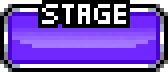
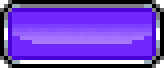
[added] 스테이지 표기 UI 변경 - 월드 표기 추가

diff --git a/Classes/game/ui/TopMenu.cpp b/Classes/game/ui/TopMenu.cpp
@@ -87,11 +87,18 @@ void TopMenu::onClick(Node *sender) {
  * Stage UI 업데이트
  */
 void TopMenu::updateStageUI(const StageData &stage) {
+
+    auto worldLabel = getChildByTag<Label*>(Tag::WORLD);
+    
+    if( worldLabel ) {
+        worldLabel->setString(STR_FORMAT("W %d", stage.world));
+    }
     
     auto stageLabel = getChildByTag<Label*>(Tag::STAGE);
     
     if( stageLabel ) {
-        stageLabel->setString(STR_FORMAT("%d", stage.stage));
+        string stageStr = (/*isBoss()*/false) ? "B" : TO_STRING(stage.stage);
+        stageLabel->setString(stageStr);
     }
 }
 
@@ -252,15 +259,21 @@ void TopMenu::initStage() {
     
     const auto bgSize(getContentSize());
     
-    // 스테이지
-    // game_bg_stage.png Vec2TL(88, -36) , Size(168, 72)
+    // 스테이지 배경
     auto stageBg = Sprite::create(DIR_IMG_GAME + "game_bg_stage.png");
     stageBg->setAnchorPoint(ANCHOR_M);
-    stageBg->setPosition(Vec2TL(bgSize, 88, -36));
+    stageBg->setPosition(Vec2TL(bgSize, 88, -38));
     addChild(stageBg, 1);
     
-    // BM_font Vec2TL(88, -44) , Size(64, 40)
-    auto stageLabel = Label::createWithBMFont(FONT_STAGE, "1", TextHAlignment::CENTER);
+    // 월드 번호
+    auto worldLabel = Label::createWithBMFont(FONT_WORLD_SMALL, "W 1", TextHAlignment::CENTER);
+    worldLabel->setTag(Tag::WORLD);
+    worldLabel->setAnchorPoint(ANCHOR_M);
+    worldLabel->setPosition(Vec2TL(bgSize, 88, -14));
+    addChild(worldLabel, 1);
+    
+    // 스테이지 번호
+    auto stageLabel = Label::createWithBMFont(FONT_WORLD_MEDIUM, "1", TextHAlignment::CENTER);
     stageLabel->setTag(Tag::STAGE);
     stageLabel->setAnchorPoint(ANCHOR_M);
     stageLabel->setPosition(Vec2TL(bgSize, 88, -44));
@@ -273,7 +286,6 @@ void TopMenu::initStage() {
     floorProgressBar.layer = layer;
     
     // Gage
-    // game_gage_stage_bg.png Vec2TC(20, -38) , Size(408, 52)
     auto gageBg = Sprite::create(DIR_IMG_GAME + "game_gage_stage_bg.png");
     gageBg->setAnchorPoint(ANCHOR_M);
     gageBg->setPosition(Vec2TC(bgSize, 20, -38));
@@ -289,14 +301,12 @@ void TopMenu::initStage() {
     
     floorProgressBar.gage = gage;
     
-    // game_icon_boss.png Vec2TC(246, -38) , Size(84, 64)
     auto gageBossIcon = Sprite::create(DIR_IMG_GAME + "game_icon_boss.png");
     gageBossIcon->setAnchorPoint(ANCHOR_M);
     gageBossIcon->setPosition(Vec2TC(bgSize, 246, -38));
     layer->addChild(gageBossIcon);
     
     // Label
-    // 12/34 size:30 stroke:3 Vec2TC(19, -14) , Size(119, 31)
     floorProgressBar.label = Label::createWithTTF("", FONT_COMMODORE, 30, Size::ZERO,
                                                   TextHAlignment::CENTER, TextVAlignment::CENTER);
     floorProgressBar.label->setAnchorPoint(ANCHOR_M);

diff --git a/Classes/content/data/model/StageData.h b/Classes/content/data/model/StageData.h
@@ -15,6 +15,7 @@
 #include "PatternData.h"
 
 struct StageData {
+    int            world;                   // 월드 번호
     int            stage;                   // 스테이지 번호
     int            originStage;
     int            finalBallCount;
@@ -28,19 +29,21 @@ struct StageData {
     BrickDataList  normalBrickList;
     BrickDataList  bossBrickList;
     
-    StageData() : stage(0) {}
+    StageData() : world(0), stage(0) {}
     
     void parse(const rapidjson::Value &v, rapidjson::Document::AllocatorType &allocator) {
         
         // int values
         {
             StringList keys({
+                "world",
                 "stage",
                 "final_ball_count",
                 "final_friends_ball_damage",
             });
             
             std::vector<int*> ptrs({
+                &world,
                 &stage,
                 &finalBallCount,
                 &finalFriendsBallDamage,
@@ -91,7 +94,7 @@ struct StageData {
 
     std::string toString() {
         std::string str = "StageData {\n";
-        str += STR_FORMAT("\tstage: %d, originStage: %d\n", stage, originStage);
+        str += STR_FORMAT("\tworld: %d, stage: %d, originStage: %d\n", world, stage, originStage);
         str += STR_FORMAT("\tfinalBallCount: %d, finalFriendsBallDamage: %d\n", finalBallCount, finalFriendsBallDamage);
         str += STR_FORMAT("\tcoinDropMin: %d, coinDropMax: %d\n", coinDropMin, coinDropMax);
         str += STR_FORMAT("\tfirstFloor: %d\n", getFirstFloor().floor);

diff --git a/Classes/base/Define.h b/Classes/base/Define.h
@@ -104,9 +104,11 @@ static const std::string FONT_GAME_OVER             = DIR_FONT + "game_over.ttf"
 static const std::string FONT_RETRO                 = DIR_FONT + "Commodore.ttf";
 static const std::string FONT_NEW_RECORD            = DIR_FONT + "Sabo-Filled.otf";
 static const std::string FONT_FAMOUS_SAYING         = DIR_FONT + "game_over.ttf";
-static const std::string FONT_STAGE                 = DIR_FONT + "ui_stage.fnt";
-static const std::string FONT_STAGE_LARGE           = DIR_FONT + "stage_big.fnt";
-static const std::string FONT_STAGE_LARGE_Y         = DIR_FONT + "stage_big_yellow.fnt";
+
+static const std::string FONT_WORLD_SMALL           = DIR_FONT + "world_small.fnt";
+static const std::string FONT_WORLD_MEDIUM          = DIR_FONT + "world_medium.fnt";
+static const std::string FONT_WORLD_LARGE           = DIR_FONT + "world_big.fnt";
+static const std::string FONT_WORLD_SILVER          = DIR_FONT + "world_silver.fnt";
 static const std::string FONT_COIN_BLUE             = DIR_FONT + "coin_blue.fnt";
 
 // 사운드 경로

diff --git a/Classes/game/GameView.cpp b/Classes/game/GameView.cpp
@@ -277,7 +277,7 @@ void GameView::onStageChanged(const StageData &stage) {
     friendsLayer->updatePosition(aimController->getStartPosition(), false);
     
     // update ui
-    showStageLabel(stage.stage);
+    showStageLabel(stage);
     updateBallCountUI();
 }
 
@@ -1200,9 +1200,14 @@ bool GameView::checkStageClear() {
 /**
  * 중앙에 Stage 라벨 표시
  */
-void GameView::showStageLabel(int stage) {
+void GameView::showStageLabel(const StageData &stage) {
     
-    auto label = Label::createWithBMFont(FONT_STAGE_LARGE, STR_FORMAT("S %d", stage),
+    // TODO:
+    // 보스는 B
+    string stageStr = (/*isBoss()*/false) ? "B" : TO_STRING(stage.stage);
+    
+    auto label = Label::createWithBMFont(FONT_WORLD_LARGE,
+                                         STR_FORMAT("W %d-%s", stage.world, stageStr.c_str()),
                                          TextHAlignment::CENTER);
     label->setAnchorPoint(ANCHOR_M);
     addChild(label);

diff --git a/Classes/content/data/Database.cpp b/Classes/content/data/Database.cpp
@@ -15,7 +15,7 @@ USING_NS_CC;
 USING_NS_SB;
 using namespace std;
 
-#define BALL_SKIN__FILE         (DIR_CONTENT_DATA + "ball_skin.json")
+#define BALL_SKIN_FILE          (DIR_CONTENT_DATA + "ball_skin.json")
 #define BRICK_FILE              (DIR_CONTENT_DATA + "brick.json")
 #define FRIENDS_FILE            (DIR_CONTENT_DATA + "friends.json")
 #define DEMO_FILE               (DIR_CONTENT_DATA + "demo.json")
@@ -58,7 +58,7 @@ void Database::init() {
 void Database::parseBallSkinJson() {
     
     CCLOG("========== PARSE START (ball_skin.json)  ==========");
-    string json = SBStringUtils::readTextFile(BALL_SKIN__FILE);
+    string json = SBStringUtils::readTextFile(BALL_SKIN_FILE);
     
     rapidjson::Document doc;
     doc.Parse(json.c_str());

diff --git a/Classes/game/GameView.hpp b/Classes/game/GameView.hpp
@@ -136,7 +136,7 @@ private:
     bool checkBrickDown();
     bool checkStageClear();
     
-    void showStageLabel(int stage);
+    void showStageLabel(const StageData &stage);
     void updateBallCountUI();
     
 private:

diff --git a/Classes/game/ui/TopMenu.hpp b/Classes/game/ui/TopMenu.hpp
@@ -23,7 +23,8 @@ public:
     
 private:
     enum Tag {
-        STAGE = 10,
+        WORLD = 10,
+        STAGE,
         SCORE,
         
         BTN_PAUSE = 100,

diff --git a/Classes/sb/effect/SBTransition.cpp b/Classes/sb/effect/SBTransition.cpp
@@ -1,6 +1,5 @@
 //
 //  SBTransition.cpp
-//  SnowBrosBrickOut-mobile
 //
 //  Created by seongmin hwang on 06/03/2019.
 //

diff --git a/Classes/sb/effect/SBTransition.hpp b/Classes/sb/effect/SBTransition.hpp
@@ -1,6 +1,5 @@
 //
 //  SBTransition.hpp
-//  SnowBrosBrickOut-mobile
 //
 //  Created by seongmin hwang on 06/03/2019.
 //
